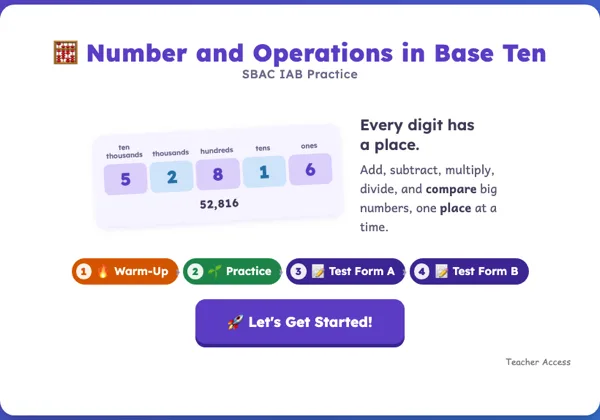
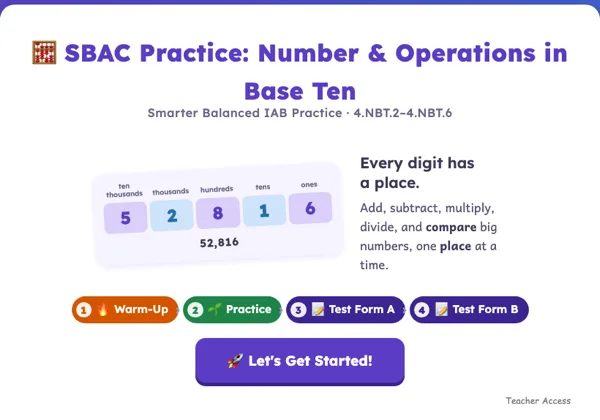
feat: SBAC Practice: Base Ten card picture shows the new title
The site's welcome screen now reads "SBAC Practice: Number & Operations in Base Ten" like the other SBAC Practice sites (Marcos: "make the titles for all SBAC Practice similar"); picture ?v=2.

Changed region(s): [[0.03, 0.0929, 0.96, 0.9286], [0.0, 0.9286, 1.0, 1.0], [0.84, 0.8357, 0.96, 0.8667]]

diff --git a/index.html b/index.html
@@ -392,7 +392,7 @@
              inside the site until Mr. O says (TEST_A_OPEN / TEST_B_OPEN in sbac-base-ten-iab-review/script.js). -->
         <a href="https://molivera1977.github.io/sbac-base-ten-iab-review/" class="card" target="_blank">
             <div class="card-image">
-                <img loading="lazy" src="images/sbac-base-ten-iab-review-2026.webp?v=1" alt="SBAC Practice: Number and Operations in Base Ten">
+                <img loading="lazy" src="images/sbac-base-ten-iab-review-2026.webp?v=2" alt="SBAC Practice: Number and Operations in Base Ten">
             </div>
             <div class="card-content">
                 <div class="card-title">SBAC Practice: Base Ten</div>
